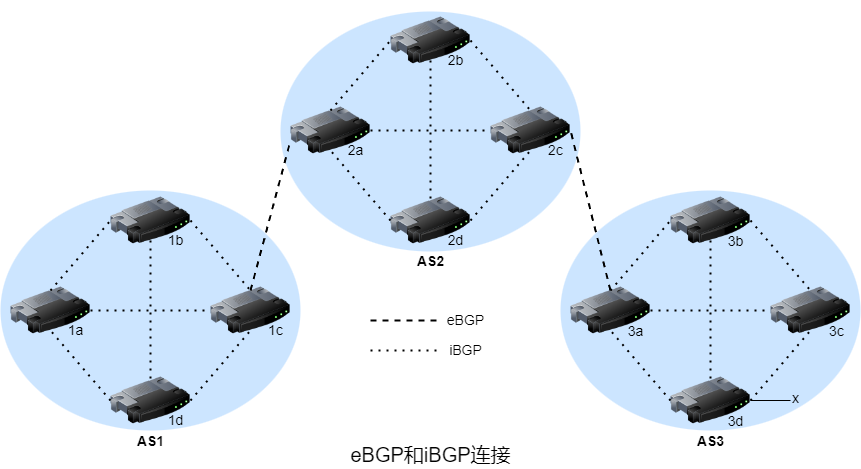
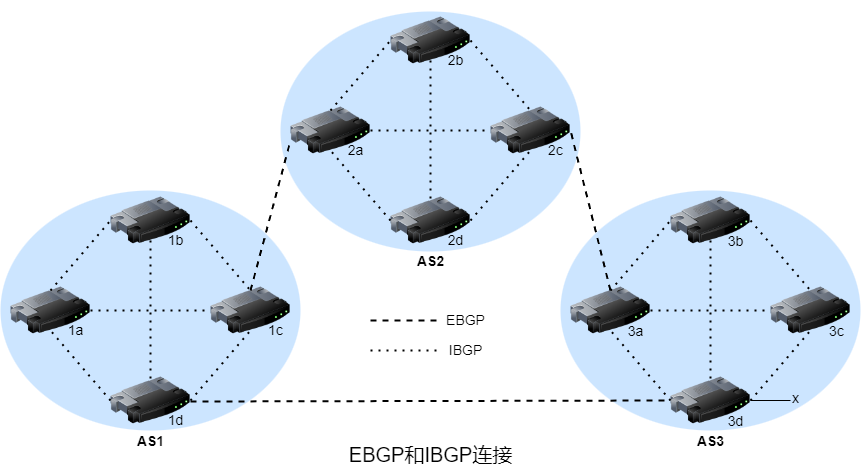
computer networking

diff --git a/computer-networking/computer-networking.md b/computer-networking/computer-networking.md
@@ -873,7 +873,7 @@ $$
 
 		在一个自治系统内运行的路由选择协议称为**自治系统内部路由选择协议**。自治系统间的路由选择协议称为**自治系统间路由选择协议**。
 
-		因特网中所有自治系统运行相同的自治系统运间路由选择协议，即**边界网关协议**。
+		因特网中所有自治系统运行相同的自治系统间路由选择协议，即**边界网关协议**。
 
 #### 4.1 路由器
 
@@ -1198,6 +1198,8 @@ forever
 
 #### 4.5 BGP
 
+##### 4.5.1 BGP
+
 		在BGP中，分组并不是路由到一个特定的目的IP地址，而是路由到类似于CIDR的前缀，该前缀表示一个子网或一个子网的集合。因此，路由器的转发表将具有$(x,I)$形式的表项，$x$表示例如138.116.68/22的前缀，$I$表示该路由器的某个接口的接口号。
 
 		BGP允许每个子网向因特网的其他部分通告它的存在，同时确保所有AS收到该通告。
@@ -1206,11 +1208,66 @@ forever
 
 ![ebgp_and_ibgp_connections](img/ebgp_and_ibgp_connections.png)
 
-		在BGP中，每条直接连接以及所有通过该连接发送的报文称为**BGP连接**。若BGP连接跨越AS则称为**外部BGP**连接，若在同一AS则称为**内部BGP**连接。内部BGP连接==并不总是==对应物理链路。
+		在BGP中，每条直接连接以及所有通过该连接发送的报文称为**BGP连接**。若BGP连接跨越AS则称为**外部BGP**连接，若在同一AS则称为**内部BGP**连接。内部BGP连接==并不总是==对应物理链路。建立BGP连接的两个路由器互称**BGP对等体**，其中发送BGP报文的路由器称为**BGP发言者**。
 
 		对于每个AS，其中的路由器是要么是**网关路由器**，要么是**内部路由器**。网关路由器位于AS边缘，内部路由器仅连接AS内部的主机和路由器。
 
-		若需要通告前缀$x$的可达性信息，首先网关路由器3a向网关路由器2c发送eBGP报文“AS3 $x$”，然后网关路由器2c在向AS2内的所有其他路由器发送iBGP报文“AS3 $x$”，最后网关路由器2a向网关路由器1c发送eBGP报文"AS2 AS3 $x$"。
+		若需要通告前缀$x$的可达性信息，对于跳数较多的路径，首先网关路由器3a向网关路由器2c发送EBGP报文“AS3 $x$”，然后网关路由器2c向AS2内的所有其他路由器发送IBGP报文“AS3 $x$”，最后网关路由器2a向网关路由器1c发送EBGP报文"AS2 AS3 $x$"。
+
+		路由器通过BGP连接通告前缀时，前缀中包括一些**BGP属性**，前缀以及属性称为**路由**。BGP属性分为**公认必遵**、**公认任意**、**可选传递**和**可选非传递**。
+
+| BGP属性类别 | BGP属性类别详情                                              | 包含的BGP属性                              |
+| ----------- | ------------------------------------------------------------ | ------------------------------------------ |
+| 公认必遵    | 所有BGP路由器必须支持，必须包含于更新报文中                  | ORIGIN、AS_PATH、NEXT_HOP                  |
+| 公认任意    | 所有BGP路由器必须支持                                        | LOCAL_PREF、ATOMIC_AGGREGATE               |
+| 可选传递    | 可以不支持，即使不支持也应该能接收包含该属性的路由并传递给邻居 | COMMUNITY、AGGREGATOR                      |
+| 可选非传递  | 可以不支持，若不支持则可以忽略包含该属性的更新报文           | MULTI_EXIT_DISC、ORIGINATOR_ID、CLUSTER_ID |
+
+		**ORIGIN**标识路由信息的来源。
+
+		**AS_PATH**包含了通告已通过的AS列表，可用来检测和防止通告环路，若路由器在AS_PATH中发现包含了自身所属的AS则拒绝该通告。
+
+		**NEXT_HOP**是==AS_PATH起始路由器接口的IP地址==。对于从AS1通过AS2到$x$的路由"AS2 AS3 $x$"，NEXT_HOP是路由器2a的左边接口的IP地址。对于AS1直接路由到AS3的路由"AS3 $x$"，NEXT_HOP是路由器3d的最左边接口的IP地址。
+
+		**LOCAL_PREF**表示路由的优先级，仅用在IBGP对等体间。
+
+		**ATOMIC_AGGREGATE**表示路由是经过了聚合。
+
+		**COMMUNITY**表示共享相同属性的目的地集合，用于将路由信息编组，通过组的标识决定路由策略的传递。
+
+		**AGGREGATOR**是ATOMIC_AGGREGATE的补充，包含发起路由聚合的ASN和形成聚合路由的BGP发言者的IP地址。
+
+		**MULTI_EXIT_DISC**用于区分同一相邻AS的多个接口。
+
+		**ORIGINATOR_ID**用于标识路由反射器。
+
+		**CLUSTER_ID**用于标识路由反射器组。
+
+##### 4.5.2 路由选择
+
+		**热土豆路由选择**可以从所有可能的路由中选择到对应NEXT_HOP路由器成本最小的路由，忽略剩余端到端成本。
+
+		使用热土豆路由选择在转发表中增加AS外部目的前缀的步骤如下：
+
+		①从AS间路由选择协议知道可通过多个网关到达子网$x$。
+
+		②通过AS内部路由选择协议获取的路由选择信息来计算到每个网关的最低成本路径的成本。
+
+		③根据热土豆路由选择来选择成本最低的网关。
+
+		④从转发表确定通往最低成本网关的接口$I$并在转发表中加入表项$(x,I)$。
+
+		BGP实际使用的路由选择算法结合了热土豆路由选择的特点但更复杂。对应给定的目的前缀，算法的输入是到路由器已知悉且接受的到该前缀的所有路由的集合。若集合中多个路由则按下列消除原则直至最后一条路由：
+
+		1）路由被分配LOCAL_PREF作为BGP属性之一。路由的LOCAL_PREF可能已由路由器设置，也可能已从同一AS中的另一台路由器获悉。选择具有最高LOCAL_PREF的路由。
+
+		2）选择具有最短AS_PATH的路由。若该规则是路由选择的唯一规则，则BGP将使用DV算法决定路径，其中距离测量使用AS跳的跳数而不是路由器跳的跳数。
+
+		3）使用热土豆路由选择，选择到NEXT_HOP路由器成本最小的路由。
+
+		4）使用BGP标识符来选择路由。
+
+##### 4.5.3 IP任播
 
 #### 4.6 OpenFlow
 
@@ -1252,9 +1309,13 @@ forever
 >
 > **address lease time** 地址租用期
 >
+> **aggregator** 聚合器
+>
 > **alternating bit protocol** 比特交替协议
 >
 > **application programming interface(API)** 应用程序编程接口
+>
+> **atomic aggregate** 原子聚合
 >
 > **automatic repeat request(ARQ)** 自动重传请求
 >
@@ -1273,6 +1334,10 @@ forever
 > **best effort delivery service** 尽力而为交付服务
 >
 > **best effort service** 尽力而为服务
+>
+> **BGP attribute** BGP属性
+>
+> **BGP speaker** BGP发言者
 >
 > **bidirectional data transfer** 双向/全双工数据传输
 >
@@ -1428,7 +1493,7 @@ forever
 >
 > **extend simple mail transfer protocol(ESMTP)** 扩展简单邮件传输协议
 >
-> **external BGP(eBGP)** 外部BGP
+> **external BGP(EBGP)** 外部BGP
 >
 > **exponential weighted moving average(EWMA)** 指数加权移动平均
 >
@@ -1486,6 +1551,8 @@ forever
 >
 > **hostname** 主机名
 >
+> **hot potato routing** 热土豆路由选择
+>
 > **hybrid fiber coax(HFC)** 混合光纤同轴
 >
 > **hyper text transfer protocol(HTTP)** 超文本传输协议
@@ -1500,7 +1567,7 @@ forever
 >
 > **inter-autonomous system routing protocol** 自治系统间路由选择协议
 >
-> **internal BGP(iBGP)** 内部BGP
+> **internal BGP(IBGP)** 内部BGP
 >
 > **internal router** 内部路由器
 >
@@ -1544,6 +1611,8 @@ forever
 >
 > **load sensitive algorithm** 负载敏感算法
 >
+> **local preference(LOCAL_PREF)** 本地优先级
+>
 > **logic communication** 逻辑通信
 >
 > **long term evolution(LTE)** 长期演进
@@ -1569,6 +1638,8 @@ forever
 > **more fragment(MF)** 还有分片
 >
 > **multicast OSPF(MOSPF)** 多播OSPF
+>
+> **multi-exit discriminator(MED/MULTI_EXIT_DISC)** 多出口鉴别器
 >
 > **multi-home** 多宿
 >
@@ -1607,6 +1678,10 @@ forever
 > **optical line terminator(OLT)** 光纤线路端连接器
 >
 > **optical network terminator(ONT)** 光纤网络端接器
+>
+> **optional non-transitive** 可选非传递
+>
+> **optional transitive** 可选传递
 >
 > **output buffer** 输出缓存
 >
@@ -1819,6 +1894,10 @@ forever
 > **utilization** 利用率
 >
 > **weighted fair queueing(WFQ)** 加权公平排队
+>
+> **well-known discretionary** 公认任意
+>
+> **well-known mandatory** 公认必遵
 >
 > **well-known port number** 周知端口号
 >
